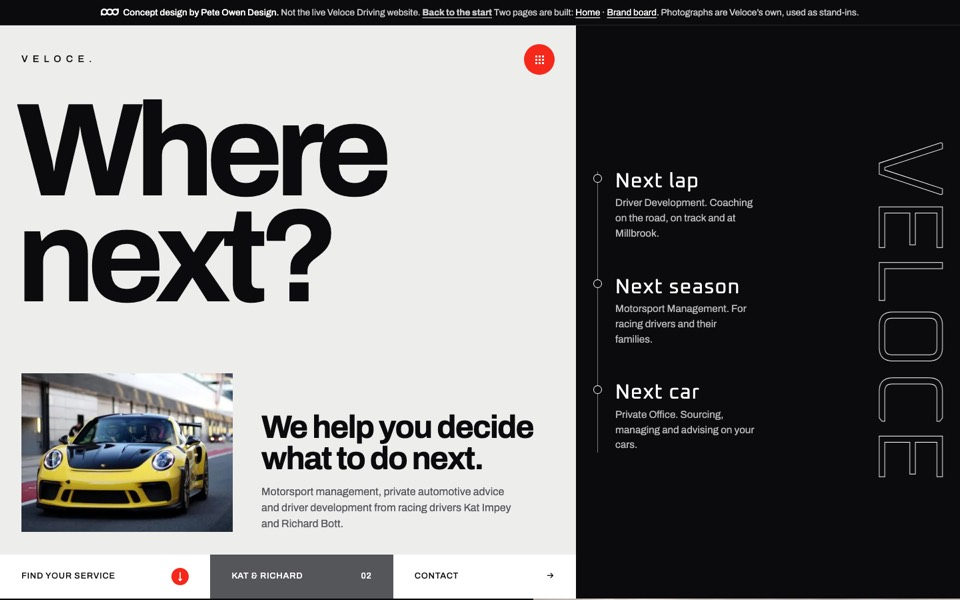
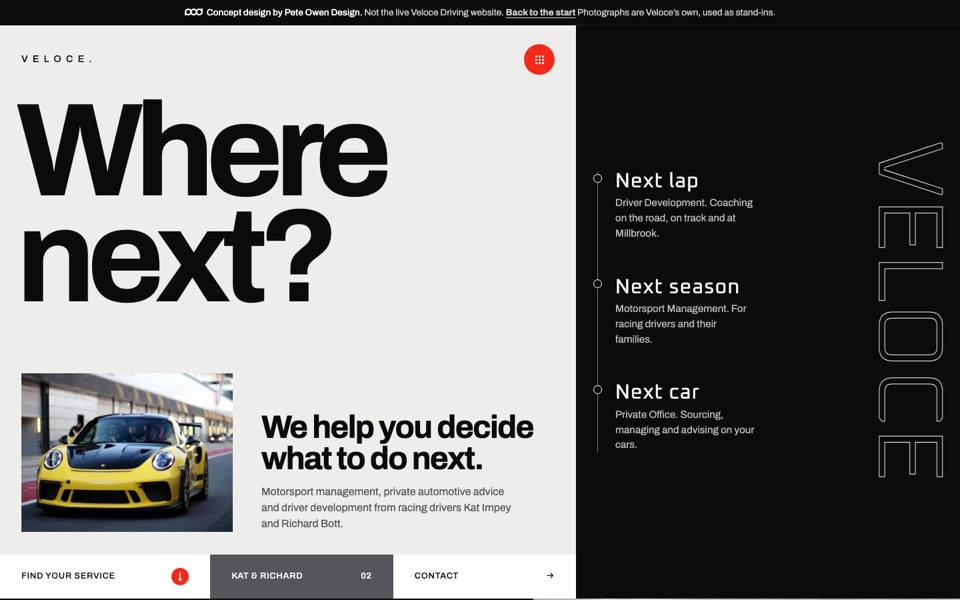
Remove brand board links; refresh intro thumbnail

Changed region(s): [[0.0938, 0.0, 0.9062, 0.03]]

diff --git a/design.html b/design.html
@@ -124,7 +124,7 @@ footer a{text-underline-offset:4px}
 </style>
 </head>
 <body>
-<div class="concept"><b><svg style="height:.85em;width:auto;vertical-align:-.05em;margin-right:.45em" viewBox="0 0 487.5 208.5" role="img" aria-label="Pete Owen Design logo"><path fill="currentColor" d="M487.5,10.6h-41.2v15.5c-15.3-10.6-33.9-16.8-53.8-16.8-30.1,0-57,14.1-74.4,36-17.4-21.9-44.3-36-74.4-36s-57,14.1-74.4,36c-17.4-21.9-44.3-36-74.4-36C44.8,9.4,3.8,48,0,96.9h-.3v100.3h41.2v-14.5c15.3,10.6,33.9,16.8,53.8,16.8,30.1,0,57-14.1,74.4-36,17.4,21.9,44.3,36,74.4,36s57-14.1,74.4-36c17.4,21.9,44.3,36,74.4,36,52.4,0,95.1-42.6,95.1-95.1s0-1.3,0-1.9h0V10.6h0ZM94.6,158.2c-29.7,0-53.8-24.2-53.8-53.8s24.2-53.8,53.8-53.8,53.8,24.2,53.8,53.8-24.2,53.8-53.8,53.8ZM243.5,158.2c-29.7,0-53.8-24.2-53.8-53.8s24.2-53.8,53.8-53.8,53.8,24.2,53.8,53.8-24.2,53.8-53.8,53.8ZM392.4,158.2c-29.7,0-53.8-24.2-53.8-53.8s24.2-53.8,53.8-53.8,53.8,24.2,53.8,53.8-24.2,53.8-53.8,53.8Z"/></svg>Concept design by Pete Owen Design.</b> Not the live Veloce Driving website. <a href="index.html" style="color:inherit;font-weight:700">Back to the start</a> Two pages are built: <a href="design.html">Home</a> · <a href="brand.html">Brand board</a>. Photographs are Veloce’s own, used as stand-ins.</div>
+<div class="concept"><b><svg style="height:.85em;width:auto;vertical-align:-.05em;margin-right:.45em" viewBox="0 0 487.5 208.5" role="img" aria-label="Pete Owen Design logo"><path fill="currentColor" d="M487.5,10.6h-41.2v15.5c-15.3-10.6-33.9-16.8-53.8-16.8-30.1,0-57,14.1-74.4,36-17.4-21.9-44.3-36-74.4-36s-57,14.1-74.4,36c-17.4-21.9-44.3-36-74.4-36C44.8,9.4,3.8,48,0,96.9h-.3v100.3h41.2v-14.5c15.3,10.6,33.9,16.8,53.8,16.8,30.1,0,57-14.1,74.4-36,17.4,21.9,44.3,36,74.4,36s57-14.1,74.4-36c17.4,21.9,44.3,36,74.4,36,52.4,0,95.1-42.6,95.1-95.1s0-1.3,0-1.9h0V10.6h0ZM94.6,158.2c-29.7,0-53.8-24.2-53.8-53.8s24.2-53.8,53.8-53.8,53.8,24.2,53.8,53.8-24.2,53.8-53.8,53.8ZM243.5,158.2c-29.7,0-53.8-24.2-53.8-53.8s24.2-53.8,53.8-53.8,53.8,24.2,53.8,53.8-24.2,53.8-53.8,53.8ZM392.4,158.2c-29.7,0-53.8-24.2-53.8-53.8s24.2-53.8,53.8-53.8,53.8,24.2,53.8,53.8-24.2,53.8-53.8,53.8Z"/></svg>Concept design by Pete Owen Design.</b> Not the live Veloce Driving website. <a href="index.html" style="color:inherit;font-weight:700">Back to the start</a> Photographs are Veloce’s own, used as stand-ins.</div>
 <section class="hero">
   <div class="left">
     <div class="top"><a class="mark" href="#" aria-label="Veloce home">Veloce.</a><a class="dot" href="#contact" aria-label="Contact"><i></i></a></div>
@@ -194,7 +194,7 @@ footer a{text-underline-offset:4px}
   <div><a class="ring" href="mailto:enquiries@velocedriving.com">— Email us</a><a class="mail" href="mailto:enquiries@velocedriving.com">enquiries@velocedriving.com</a></div>
 </section>
 </main>
-<footer><span>Veloce Driving</span><span>Motorsport Management · Private Office · Driver Development</span><a href="brand.html">Brand board</a><p class="legal">Concept design for discussion. Not the live Veloce Driving website. Design by Pete Owen Design.</p></footer>
+<footer><span>Veloce Driving</span><span>Motorsport Management · Private Office · Driver Development</span><p class="legal">Concept design for discussion. Not the live Veloce Driving website. Design by Pete Owen Design.</p></footer>
 
 <script>
 // Reading down the list changes the photograph beside it.

diff --git a/index.html b/index.html
@@ -101,7 +101,7 @@
       <div class="dtext">
         <h3>Where next?</h3>
         <p>A homepage built around one question for every driver and client: where next?</p>
-        <p class="links"><a class="btn" href="design.html">Open this design</a><a class="ghost" href="brand.html">Brand board</a></p>
+        <p class="links"><a class="btn" href="design.html">Open this design</a></p>
       </div>
     </article>
   </div>
